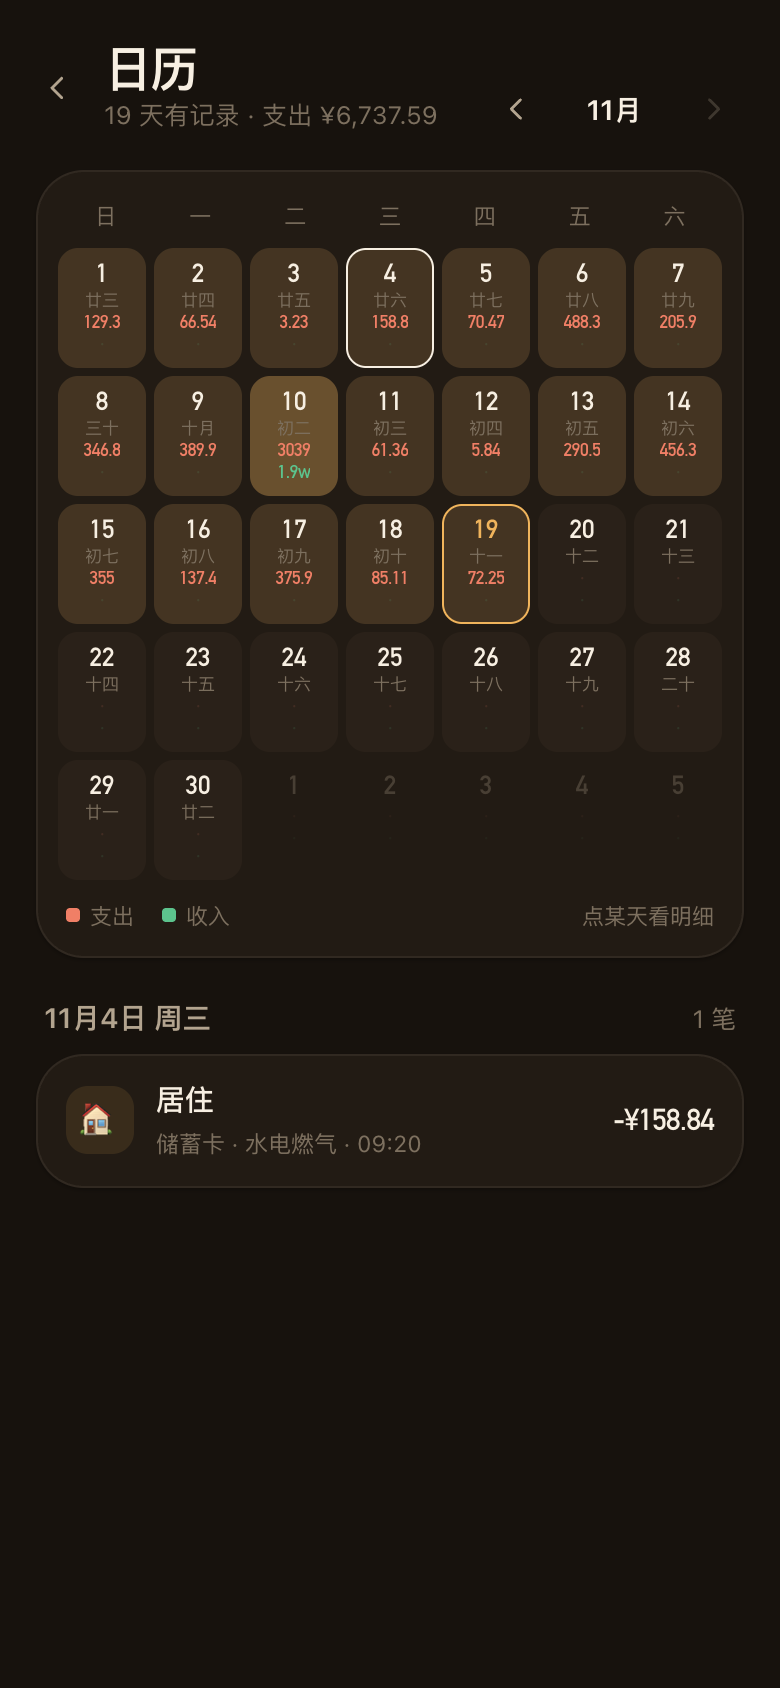
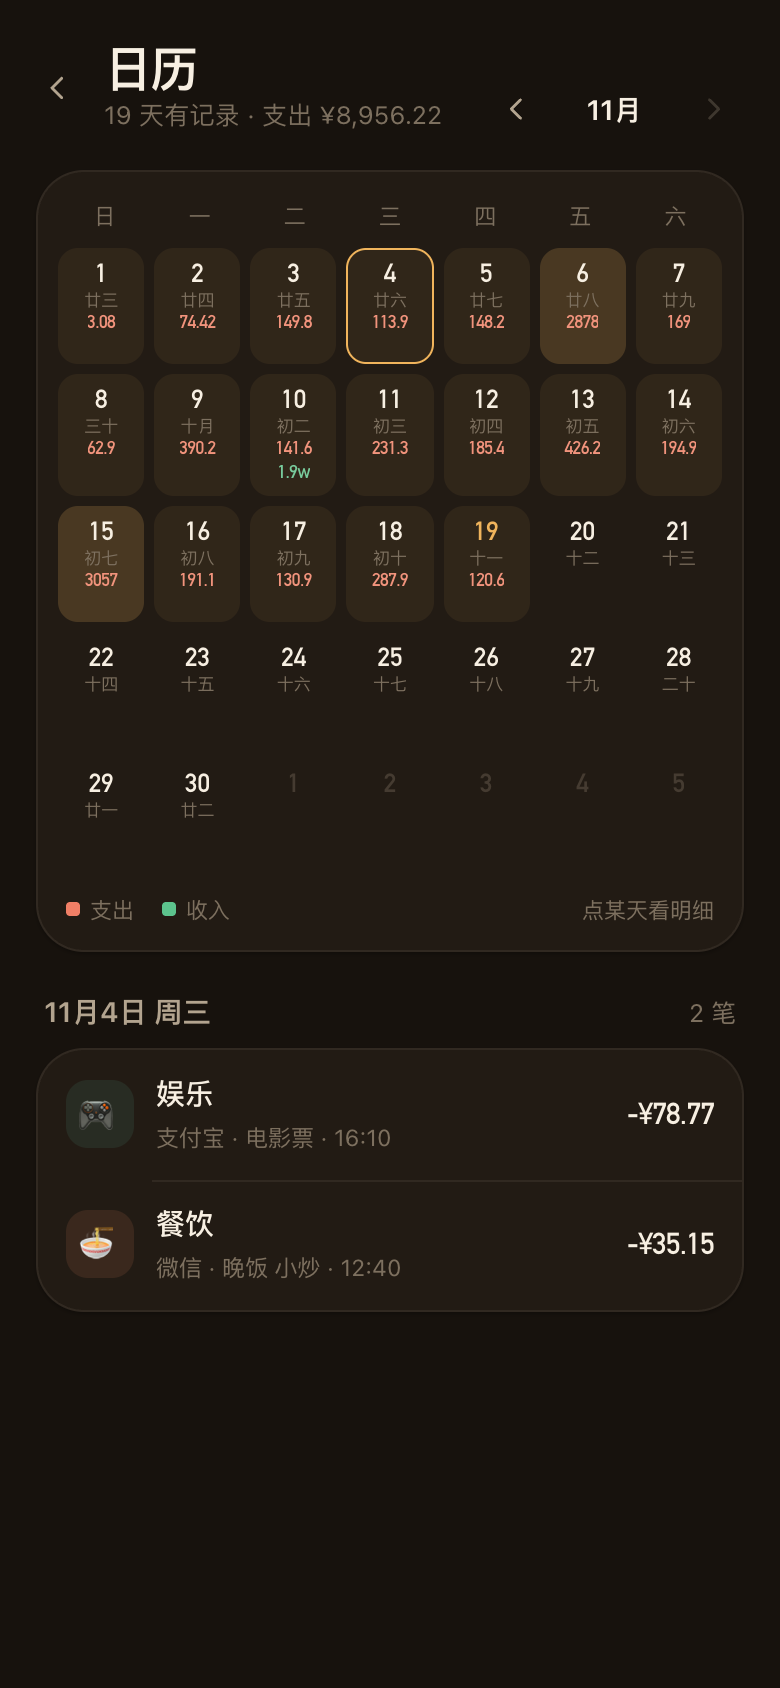
docs: 补一张统计页日历的截图，README 说明日历有两处入口

diff --git a/README.md b/README.md
@@ -118,7 +118,7 @@ Documents/随手记/archives/2026-11-18.json  按天留档，同一天覆盖
 | 明细 | 按月浏览，按收支类型/分类/账户/金额区间筛选，关键词搜索 |
 | 周期账单 | 房租、订阅、还款设成规则，打开 App 自动补记到期条目 |
 | 分类管理 | 22 个预置分类，可增删、换图标换颜色、调整顺序；记账页里长按分类就能改，末尾的「＋」直接新建 |
-| 记账日历 | 一月一屏，每格写公历、农历和当天支出/收入，有账的日子按金额深浅铺色；点某天在下面展开那天的明细。首页月份、我的 → 记账日历都能进 |
+| 记账日历 | 一月一屏，每格写公历、农历和当天支出/收入，有账的日子按金额深浅铺色；点某天在下面展开那天的明细。统计页里也有一份，跟着上面的月份一起翻；首页月份、我的 → 记账日历也能进 |
 | 打卡热力图 | 近 19 周每天一格，按笔数或金额着深浅；点开看当天几笔花了多少，另有连续记账天数 |
 | 外观 | 跟随系统 / 浅色 / 深色 |
 | 数据文件 | 自动把账本写成手机里的 JSON 文件，按天留档，可回滚到任意一天 |
@@ -164,7 +164,8 @@ src/
               lunar.ts 农历小字（Intl 中文历法，不引日历库）
               widget.ts 桌面小组件快照：算好今日收支与预算，交给原生插件
   components/ Icons 手写 SVG 图标 · TabBar 底部导航 · Sheet 底部抽屉 · TransactionRow 记账行 · Donut / TrendChart
-              Heatmap 打卡热力图 · CategoryEditor 分类编辑面板（记账页与分类页共用）
+              Heatmap 打卡热力图 · MonthCalendar 月历格子（日历页与统计页共用）
+              CategoryEditor 分类编辑面板（记账页与分类页共用）
   pages/      HomePage 首页 · ChatPage 对话记账 · AddPage 记账 · TransactionsPage 明细 · StatsPage 统计
               CalendarPage 记账日历 · BudgetPage 预算 · AccountsPage 账户 · RecurringPage 周期账单
               CategoriesPage 分类 · MinePage 我的 · SettingsPage 设置
